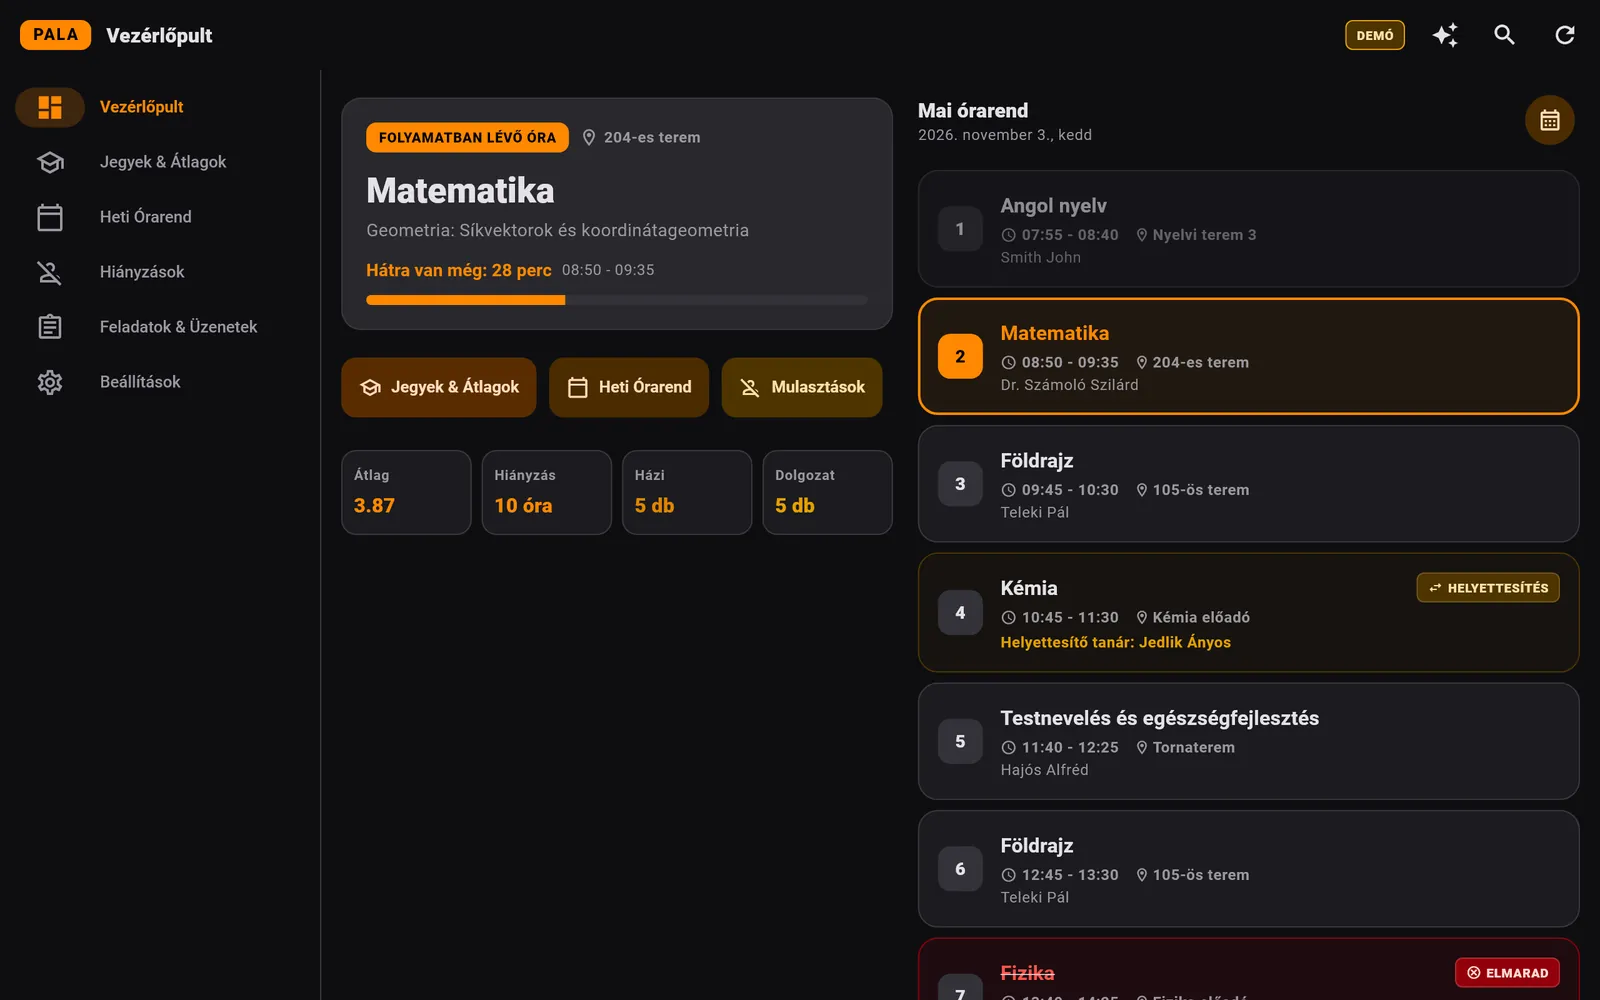
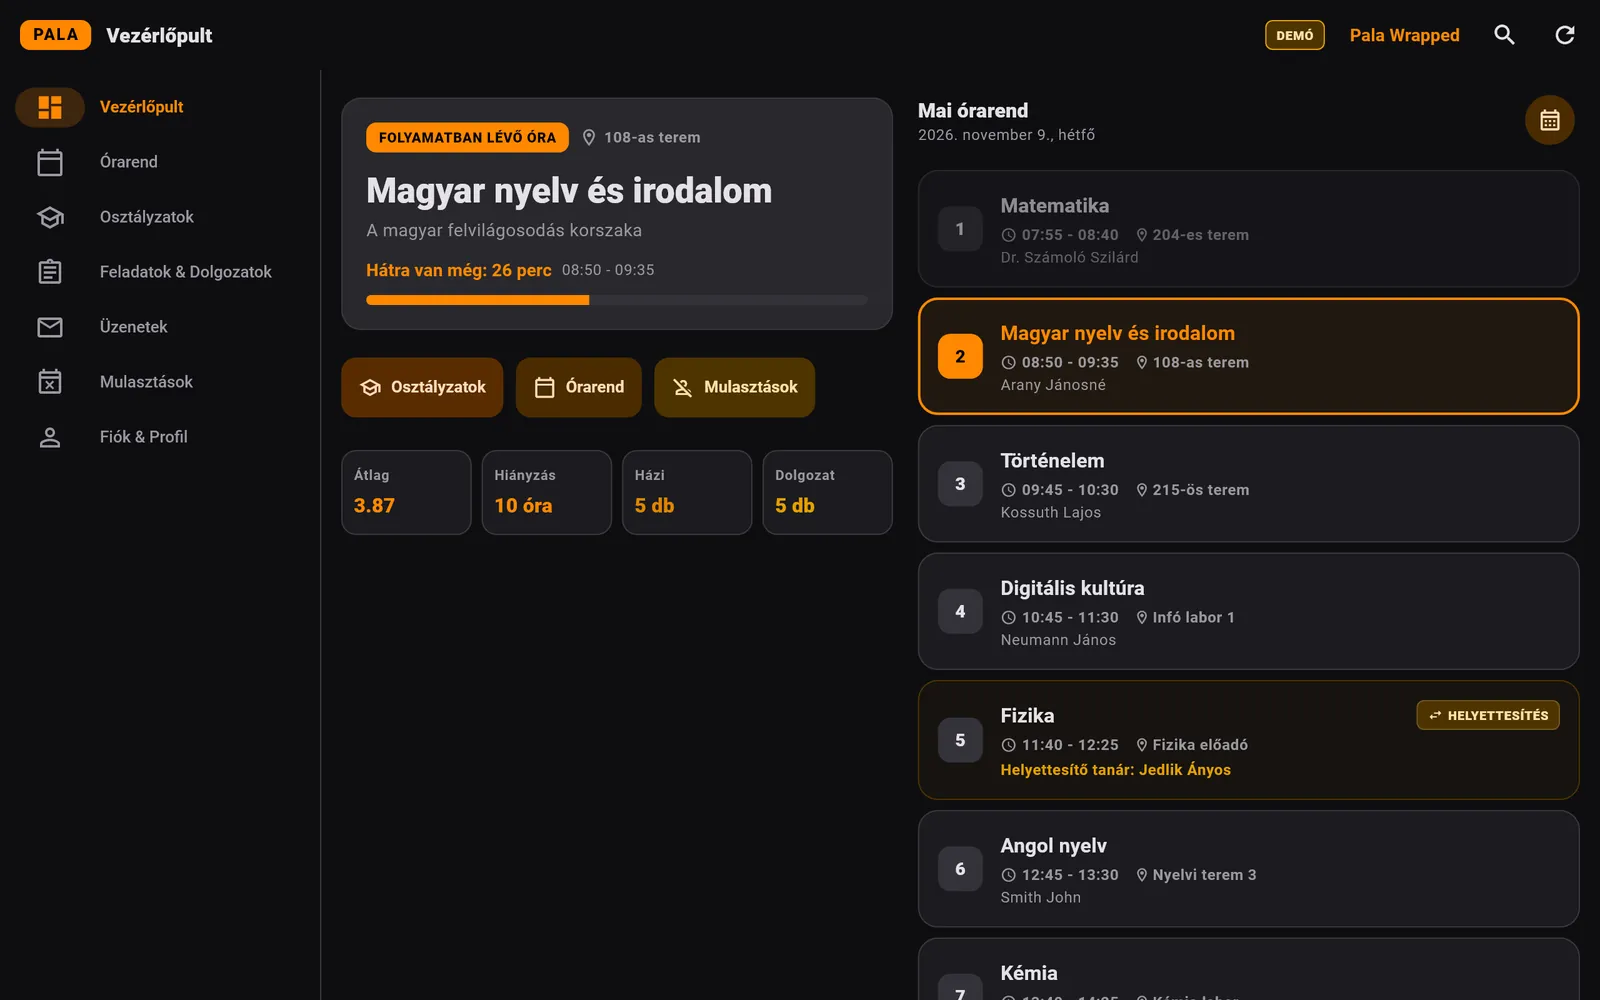
chore: website previews of a school Monday morning, whenever captured
The demo follows the real clock, so screenshots taken on a Wednesday (the
demo's free day) or in the evening showed no lessons. PalaClock is the
time the app's screens and the demo data read (DateTime.now() unless
fixed); the preview capture fixes it to Monday 9 November 2026 09:10,
and the extension's preview stub takes a now= option for the same
moment. The website's hero images are recaptured from the current app
and extension.

diff --git a/lib/api/demo_data.dart b/lib/api/demo_data.dart
@@ -1,4 +1,5 @@
 import '../models/models.dart';
+import '../utils/pala_clock.dart';
 
 /// Provides rich, realistic mock data for "Teszt Elek" in Pala TUI.
 class DemoData {
@@ -31,7 +32,7 @@ class DemoData {
 
   /// Generates realistic grades spanning from September 1 to June 21.
   static List<Grade> getGrades() {
-    final now = DateTime.now();
+    final now = PalaClock.now();
     final currentAcademicYear = (now.month >= 9) ? now.year : now.year - 1;
     final y1 = currentAcademicYear;
     final y2 = currentAcademicYear + 1;
@@ -1021,7 +1022,7 @@ class DemoData {
 
   /// Returns dynamic timetable for requested Monday-Friday dates.
   static List<TimetableEntry> getTimetable({DateTime? start, DateTime? end, bool? overrideAWeek}) {
-    final now = DateTime.now();
+    final now = PalaClock.now();
     DateTime baseMonday = start ?? now.subtract(Duration(days: now.weekday - 1));
     baseMonday = DateTime(baseMonday.year, baseMonday.month, baseMonday.day);
 
@@ -1116,7 +1117,7 @@ class DemoData {
 
   /// Announced upcoming / yearly exams.
   static List<Exam> getExams() {
-    final now = DateTime.now();
+    final now = PalaClock.now();
     return [
       Exam(
         subject: 'Matematika',
@@ -1158,7 +1159,7 @@ class DemoData {
 
   /// Homework assignments.
   static List<Homework> getHomework({DateTime? start, String? id}) {
-    final now = DateTime.now();
+    final now = PalaClock.now();
     return [
       Homework(
         uid: 'DEMO-HW-1',
@@ -1203,7 +1204,7 @@ class DemoData {
   /// Electronic diary messages.
   static List<Message> getMessages() {
     if (_cachedMessages != null) return _cachedMessages!;
-    final now = DateTime.now();
+    final now = PalaClock.now();
     _cachedMessages = [
       Message(
         id: 101,
@@ -1273,7 +1274,7 @@ class DemoData {
   /// Electronic diary notes and disciplinary/praise records.
   static List<Note> getNotes() {
     if (_cachedNotes != null) return _cachedNotes!;
-    final now = DateTime.now();
+    final now = PalaClock.now();
     _cachedNotes = [
       Note(
         id: '105',
@@ -1313,7 +1314,7 @@ class DemoData {
         id: newId,
         senderName: 'Címzett: $recipientName (Elküldve)',
         subject: subject,
-        sentDate: DateTime.now(),
+        sentDate: PalaClock.now(),
         isRead: true,
         text: text,
         attachments: attachments,
@@ -1340,7 +1341,7 @@ class DemoData {
 
   /// Realistic absences and delays.
   static List<Absence> getAbsences() {
-    final now = DateTime.now();
+    final now = PalaClock.now();
     return [
       // Parental excused day (2 lessons)
       Absence(

diff --git a/app/lib/views/timetable_view.dart b/app/lib/views/timetable_view.dart
@@ -6,6 +6,7 @@ import 'package:pala/models/timetable_entry.dart';
 import 'package:pala/utils/ics_exporter.dart';
 import '../state/app_model.dart';
 import '../theme/pala_theme.dart';
+import 'package:pala/utils/pala_clock.dart';
 
 class TimetableView extends StatefulWidget {
   final AppModel appModel;
@@ -26,7 +27,7 @@ class _TimetableViewState extends State<TimetableView> with SingleTickerProvider
   @override
   void initState() {
     super.initState();
-    final todayWeekday = DateTime.now().weekday;
+    final todayWeekday = PalaClock.now().weekday;
     final initialIndex = (todayWeekday >= 1 && todayWeekday <= 5) ? todayWeekday - 1 : 0;
     _tabController = TabController(length: 5, vsync: this, initialIndex: initialIndex);
   }
@@ -258,7 +259,7 @@ class _TimetableViewState extends State<TimetableView> with SingleTickerProvider
                         children: List.generate(5, (dayIdx) {
                           final lessons = _getLessonsForDay(dayIdx);
                           final dateStr = _getDateForDay(dayIdx);
-                          final isToday = DateTime.now().weekday == (dayIdx + 1) && widget.appModel.weekOffset == 0;
+                          final isToday = PalaClock.now().weekday == (dayIdx + 1) && widget.appModel.weekOffset == 0;
 
                           return Expanded(
                             child: Container(
@@ -428,7 +429,7 @@ class _TimetableViewState extends State<TimetableView> with SingleTickerProvider
 
   Widget _buildLessonCard(TimetableEntry l, Color primary, {required bool compact}) {
     final isCancelled = l.isCancelled;
-    final now = DateTime.now();
+    final now = PalaClock.now();
     final startTime = l.startTime;
     final endTime = l.endTime;
     final isToday = startTime != null && startTime.year == now.year && startTime.month == now.month && startTime.day == now.day;
@@ -562,7 +563,7 @@ class _TimetableViewState extends State<TimetableView> with SingleTickerProvider
                 child: Text('Óra', style: TextStyle(color: PalaTheme.textMuted, fontSize: 12, fontWeight: FontWeight.w800)),
               ),
               ...List.generate(days.length, (dayIdx) {
-                final isToday = DateTime.now().weekday == (dayIdx + 1) && widget.appModel.weekOffset == 0;
+                final isToday = PalaClock.now().weekday == (dayIdx + 1) && widget.appModel.weekOffset == 0;
                 return Expanded(
                   child: Container(
                     padding: const EdgeInsets.symmetric(vertical: 8, horizontal: 4),

diff --git a/app/lib/features/dashboard/presentation/live_dashboard_view.dart b/app/lib/features/dashboard/presentation/live_dashboard_view.dart
@@ -18,6 +18,7 @@ import '../../../core/widgets/skeleton_container.dart';
 import '../../../state/app_model.dart';
 import '../widgets/countdown_hero_card.dart';
 import '../widgets/timetable_tile.dart';
+import 'package:pala/utils/pala_clock.dart';
 
 /// Overhauled Live Dashboard ("Élő Dashboard") View for real-time academic tracking.
 class LiveDashboardView extends StatefulWidget {
@@ -48,7 +49,7 @@ class _LiveDashboardViewState extends State<LiveDashboardView> {
   }
 
   List<TimetableEntry> _getTodayLessons() {
-    final todayStr = DateFormat('yyyy-MM-dd').format(DateTime.now());
+    final todayStr = DateFormat('yyyy-MM-dd').format(PalaClock.now());
     return widget.appModel.timetable.where((l) {
       if (l.startTime == null) return false;
       final dateStr = DateFormat('yyyy-MM-dd').format(l.startTime!);
@@ -71,7 +72,7 @@ class _LiveDashboardViewState extends State<LiveDashboardView> {
         widget.appModel.exams,
       );
       final dir = await getApplicationDocumentsDirectory();
-      final timestamp = DateFormat('yyyyMMdd_HHmmss').format(DateTime.now());
+      final timestamp = DateFormat('yyyyMMdd_HHmmss').format(PalaClock.now());
       final file = File('${dir.path}${Platform.pathSeparator}orarend_$timestamp.ics');
       await file.writeAsString(ics);
 
@@ -102,7 +103,7 @@ class _LiveDashboardViewState extends State<LiveDashboardView> {
   Widget build(BuildContext context) {
     final theme = Theme.of(context);
     final colorScheme = theme.colorScheme;
-    final now = DateTime.now();
+    final now = PalaClock.now();
     final todayLessons = _getTodayLessons();
 
     TimetableEntry? currentLesson;
@@ -371,7 +372,7 @@ class _LiveDashboardViewState extends State<LiveDashboardView> {
 
   Widget _buildRecentGrades(BuildContext context, ThemeData theme, ColorScheme colorScheme) {
     // Grades earned so far: midyear and year-end results are not "recent grades".
-    final now = DateTime.now();
+    final now = PalaClock.now();
     final grades = widget.appModel.grades.where((g) => !g.isSummaryGrade && (g.date == null || !g.date!.isAfter(now))).toList()
       ..sort((a, b) => (b.date ?? DateTime(0)).compareTo(a.date ?? DateTime(0)));
     final shown = grades.take(6).toList();

diff --git a/scripts/previews/chrome_stub.js b/scripts/previews/chrome_stub.js
@@ -1,8 +1,25 @@
 // Minimal chrome.* stand-in so extension/popup/popup.html runs as a plain page in demo mode,
 // for capturing website preview screenshots only (never shipped with the extension).
-// URL hash options: #theme=light|dark&tab=<data-tab id>, e.g. #theme=light&tab=tab-today
+// URL hash options: #theme=light|dark&tab=<data-tab id>&now=<local ISO time>,
+// e.g. #theme=light&tab=tab-today&now=2026-11-09T09:10:00
 (() => {
   const opts = Object.fromEntries(new URLSearchParams(location.hash.slice(1)));
+
+  // now=: the page sees that moment as the current time (still ticking), so the
+  // demo shows a school morning whenever the screenshot is taken.
+  if (opts.now) {
+    const RealDate = Date;
+    const offset = new RealDate(opts.now).getTime() - RealDate.now();
+    class FakeDate extends RealDate {
+      constructor(...args) {
+        super(...(args.length ? args : [RealDate.now() + offset]));
+      }
+      static now() {
+        return RealDate.now() + offset;
+      }
+    }
+    window.Date = FakeDate;
+  }
   const store = { pala_use_demo: true, pala_dark_mode: opts.theme !== "light" };
   const noop = () => {};
   const asyncNoop = async () => undefined;

diff --git a/app/lib/state/app_model.dart b/app/lib/state/app_model.dart
@@ -24,6 +24,7 @@ import '../notifications/background_check.dart';
 import '../notifications/notification_service.dart';
 import '../theme/pala_theme.dart';
 import 'session_store.dart';
+import 'package:pala/utils/pala_clock.dart';
 
 class AppModel extends ChangeNotifier {
   KretaClient? _client;
@@ -88,7 +89,7 @@ class AppModel extends ChangeNotifier {
 
   DateTime get currentWeekMonday {
     // Calendar arithmetic: a Duration step drifts an hour across DST changes.
-    final now = DateTime.now();
+    final now = PalaClock.now();
     return DateTime(now.year, now.month, now.day - (now.weekday - 1) + _weekOffset * 7);
   }
 
@@ -384,7 +385,7 @@ class AppModel extends ChangeNotifier {
 
   Future<List<TimetableEntry>> _fetchTimetableForOffset(int offset) async {
     if (_client == null) return [];
-    final now = DateTime.now();
+    final now = PalaClock.now();
     final start = DateTime(now.year, now.month, now.day - (now.weekday - 1) + offset * 7);
     final end = DateTime(start.year, start.month, start.day + 4, 23, 59, 59);
 

diff --git a/app/lib/core/adaptive/adaptive_scaffold.dart b/app/lib/core/adaptive/adaptive_scaffold.dart
@@ -12,6 +12,7 @@ import '../../views/tasks_view.dart';
 import '../../views/timetable_view.dart';
 import 'adaptive_breakpoints.dart';
 import 'app_pages.dart';
+import 'package:pala/utils/pala_clock.dart';
 
 /// Unified adaptive root scaffold auto-swapping between NavigationBar (<600dp)
 /// and NavigationRail (>=600dp) while preserving state via IndexedStack and PageStorageKey.
@@ -327,7 +328,7 @@ class _AdaptiveScaffoldState extends State<AdaptiveScaffold> {
         // Pala Wrapped: wide layouts only (phones reach it from Settings >
         // Eszközök), and only in the summer break or demo mode. A text button,
         // so it does not read as an AI feature.
-        if (!isCompact && (isWrappedSeason(DateTime.now()) || widget.appModel.isDemo))
+        if (!isCompact && (isWrappedSeason(PalaClock.now()) || widget.appModel.isDemo))
           TextButton(
             onPressed: () => PalaWrappedView.show(context, widget.appModel),
             child: const Text('Pala Wrapped', style: TextStyle(fontWeight: FontWeight.w700)),

diff --git a/test/pala_clock_test.dart b/test/pala_clock_test.dart
@@ -1,0 +1,23 @@
+import 'package:pala/api/demo_data.dart';
+import 'package:pala/utils/pala_clock.dart';
+import 'package:test/test.dart';
+
+void main() {
+  tearDown(() => PalaClock.fix(null));
+
+  test('a fixed clock is what the app reads, and clearing it returns to the real time', () {
+    PalaClock.fix(DateTime(2026, 11, 9, 9, 10));
+    expect(PalaClock.now(), DateTime(2026, 11, 9, 9, 10));
+    PalaClock.fix(null);
+    expect(PalaClock.now().difference(DateTime.now()).inSeconds.abs(), lessThan(2));
+  });
+
+  test('demo data follows the fixed clock: a Monday morning has lessons that day', () {
+    final monday = DateTime(2026, 11, 9, 9, 10);
+    PalaClock.fix(monday);
+    final lessons = DemoData.getTimetable(start: DateTime(2026, 11, 9), end: DateTime(2026, 11, 15));
+    expect(lessons.where((l) => l.startTime?.weekday == DateTime.monday), isNotEmpty);
+    final latest = DemoData.getGrades().map((g) => g.date).whereType<DateTime>().where((d) => !d.isAfter(monday));
+    expect(latest, isNotEmpty);
+  });
+}

diff --git a/app/test/preview_capture_test.dart b/app/test/preview_capture_test.dart
@@ -10,6 +10,7 @@ import 'package:flutter/rendering.dart';
 import 'package:flutter/services.dart';
 import 'package:flutter_test/flutter_test.dart';
 import 'package:intl/date_symbol_data_local.dart';
+import 'package:pala/utils/pala_clock.dart';
 import 'package:pala_app/core/theme/m3_theme.dart';
 import 'package:pala_app/main.dart';
 import 'package:pala_app/state/app_model.dart';
@@ -100,6 +101,9 @@ void main() {
 
   setUpAll(() async {
     if (!_capture) return;
+    // Screenshots show a school Monday morning, during the second lesson,
+    // whenever they are taken (the demo has no lessons on Wednesdays).
+    PalaClock.fix(DateTime(2026, 11, 9, 9, 10));
     SharedPreferences.setMockInitialValues({});
     await initializeDateFormatting('hu_HU', null);
     await _loadSdkFonts();

diff --git a/lib/rules/schedule_rules.dart b/lib/rules/schedule_rules.dart
@@ -1,9 +1,11 @@
+import '../utils/pala_clock.dart';
+
 /// True when [date] is today or later (local time); false for earlier days
 /// and a missing date. Upcoming exam and homework lists use it. The
 /// extension mirrors it in `KretaApi.isUpcoming`.
 bool isUpcoming(DateTime? date, [DateTime? now]) {
   if (date == null) return false;
-  final n = now ?? DateTime.now();
+  final n = now ?? PalaClock.now();
   final today = DateTime(n.year, n.month, n.day);
   return !date.toLocal().isBefore(today);
 }

diff --git a/lib/utils/pala_clock.dart b/lib/utils/pala_clock.dart
@@ -1,0 +1,11 @@
+/// The current time as Pala's screens and demo data see it. Normally this is
+/// DateTime.now(); the preview-capture test fixes it (for example to a school
+/// Monday morning) so screenshots do not depend on when they are taken.
+abstract final class PalaClock {
+  static DateTime? _fixed;
+
+  static DateTime now() => _fixed ?? DateTime.now();
+
+  /// Fixes the clock to [time]; null returns to the real time.
+  static void fix(DateTime? time) => _fixed = time;
+}

diff --git a/docs/DEV.md b/docs/DEV.md
@@ -101,6 +101,7 @@ python scripts/previews/to_webp.py
 
 - Az első parancs az asztali és a telefonos nézetet rögzíti (sötét és világos téma), a második a bővítmény felugró ablakát egy Chromium-alapú böngészővel (Edge, Chrome vagy Brave), a harmadik WebP-be alakítja és átméretezi a képeket.
 - A nyers PNG-k a `build/previews/` mappába kerülnek (gitignore alatt).
+- A képek mindig egy iskolai hétfő reggelt mutatnak (2026. november 9., 9:10, a 2. óra közben), bármikor készülnek: az alkalmazásban a `PalaClock`, a kiterjesztésben a `chrome_stub.js` `now=` beállítása rögzíti az időt.
 - A képek a futtatás napjának órarendjét mutatják: hétköznap, tanítási időben futtatva a vezérlőpult a következő órát jeleníti meg.
 - A `to_webp.py` a Pillow csomagot igényli (`pip install pillow`).
 
